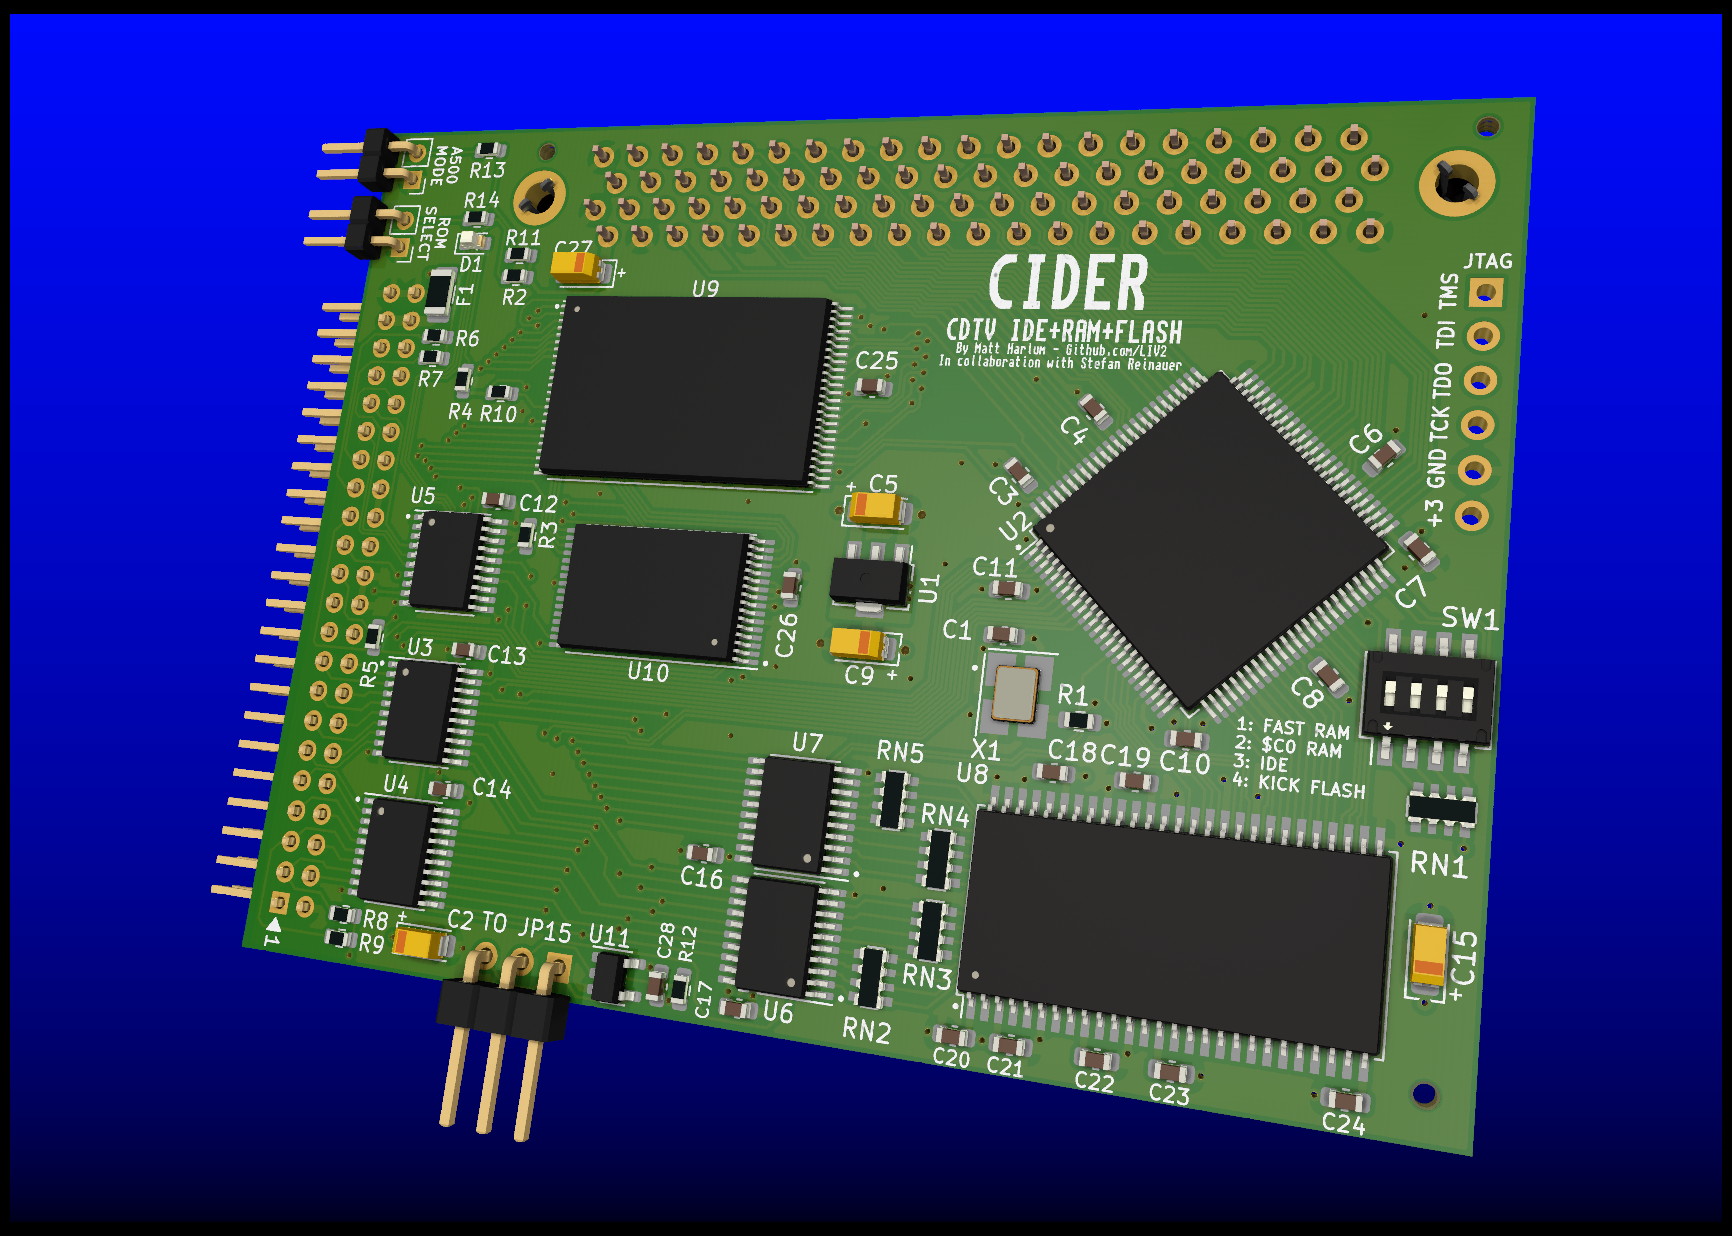
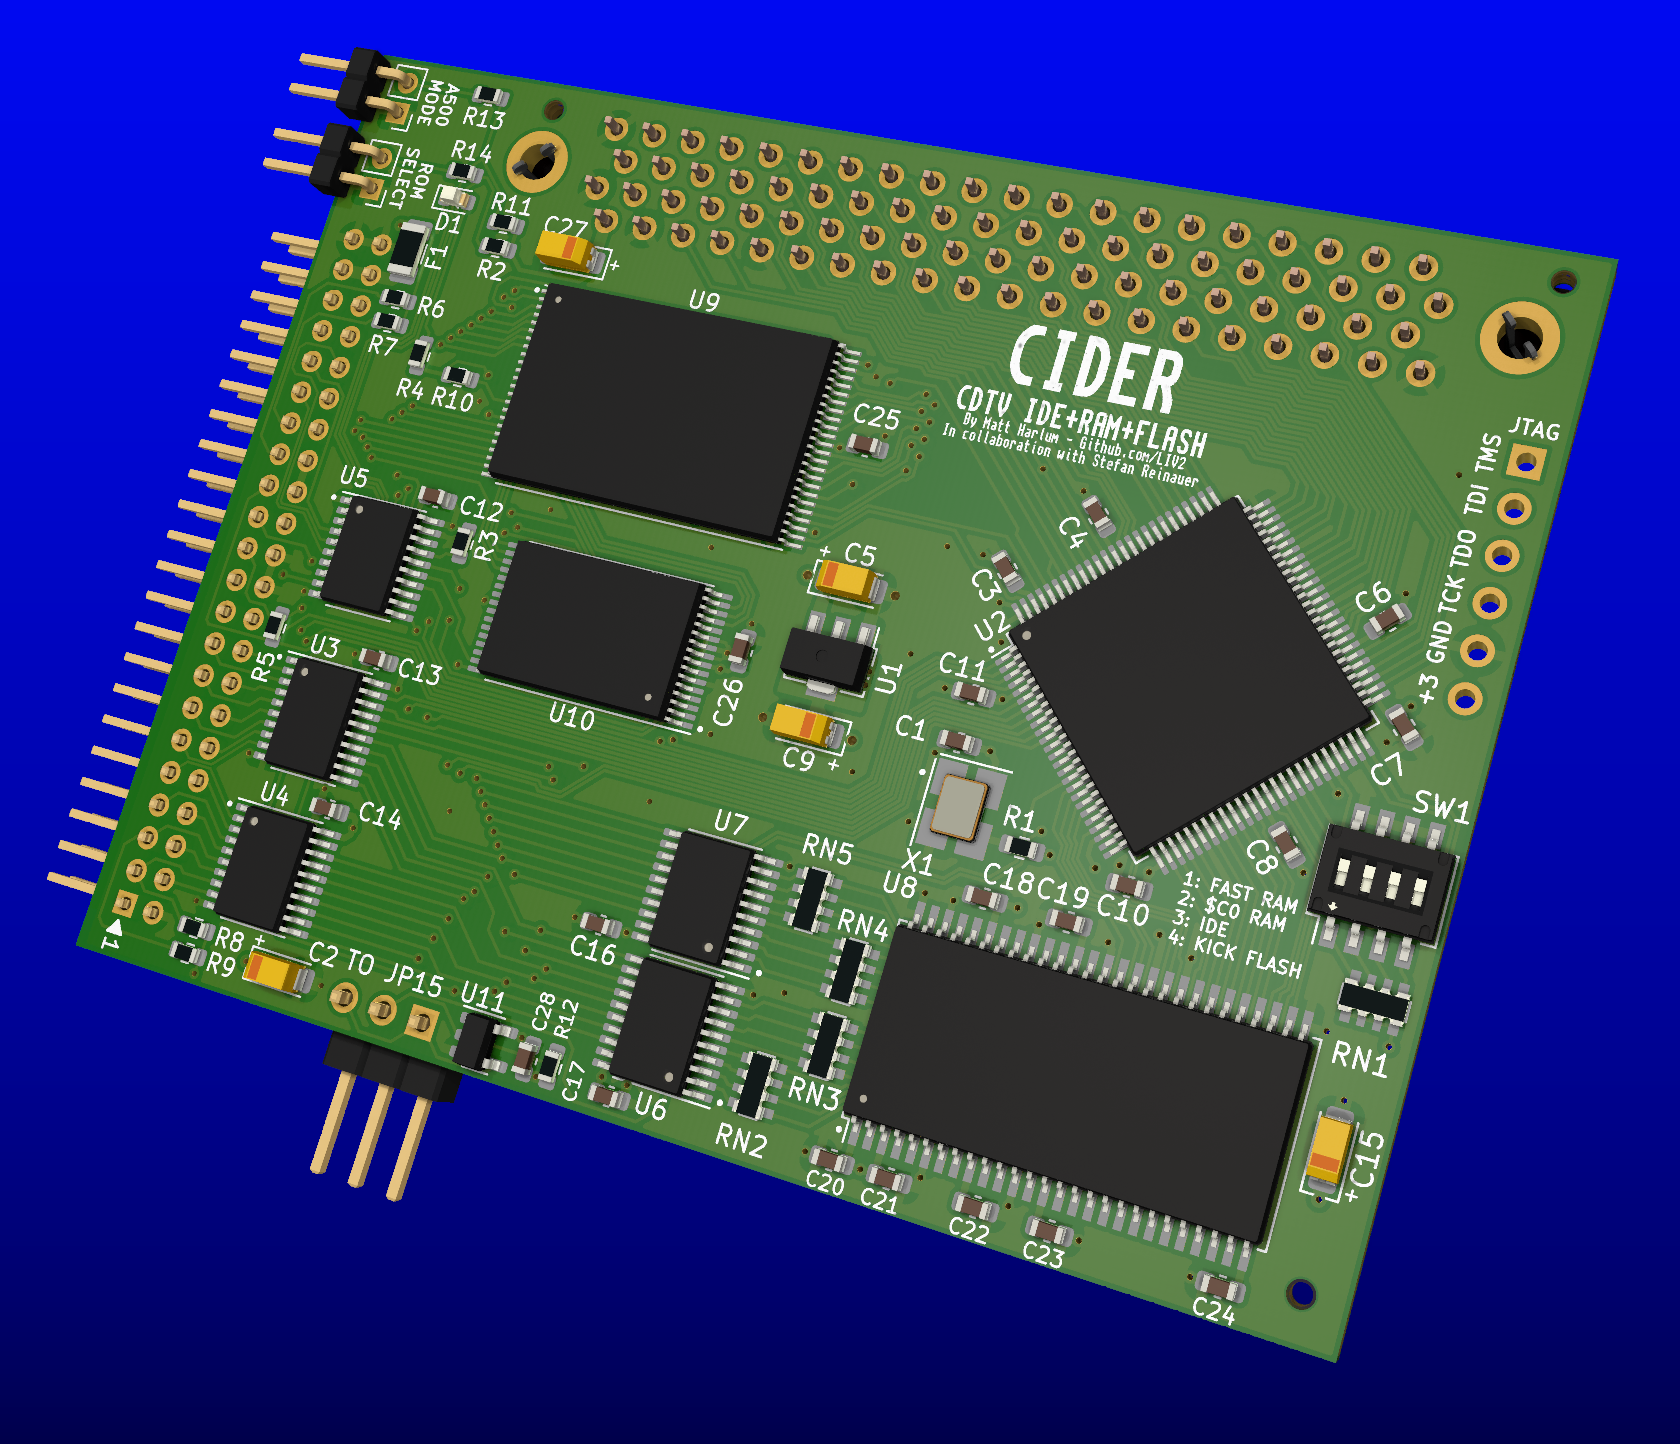
Add photos

diff --git a/README.md b/README.md
@@ -23,8 +23,9 @@ IDE + 11.37 Megabyte Fast RAM + Dual Kickstart flash for the CDTV
     * [PCB Order details](#pcb-order-details)
     * [PCB Assembly](#pcb-assembly)
     * [Bill of materials](#bill-of-materials)
-8. [Acknowledgements](#acknowledgements)
-9. [License](#license)
+8. [Pictures](#pictures)
+9. [Acknowledgements](#acknowledgements)
+10. [License](#license)
 
 ## Compatibility
 
@@ -116,6 +117,10 @@ You can use the following options:
 |RN2-5|4|22 Ohm|R Array Convex 4x0603|[Mouser](https://www.mouser.com/ProductDetail/667-EXB-V8N220JV)| |
 |J2-J3|2|Header|2.0mm 1x02 Right-angle| | |
 |J5|1|Header|2.54mm 1x03 Right-angle| | |
+
+## Pictures
+![CDTV_1](Docs/CDTV_1.png?raw=True)
+![CDTV_2](Docs/CDTV_2.png?raw=True)
 
 ## Acknowledgements
 
